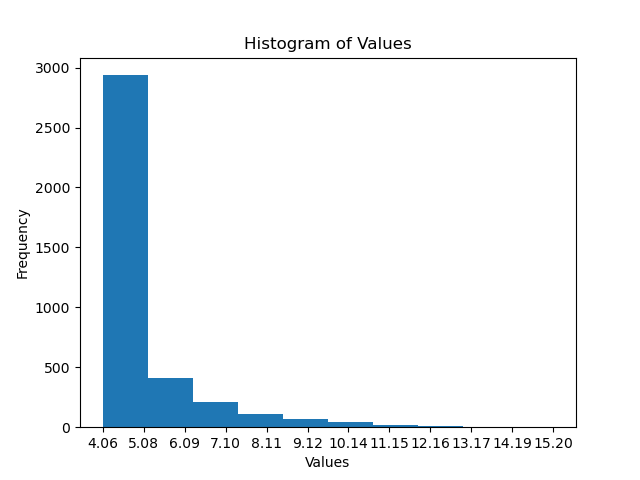
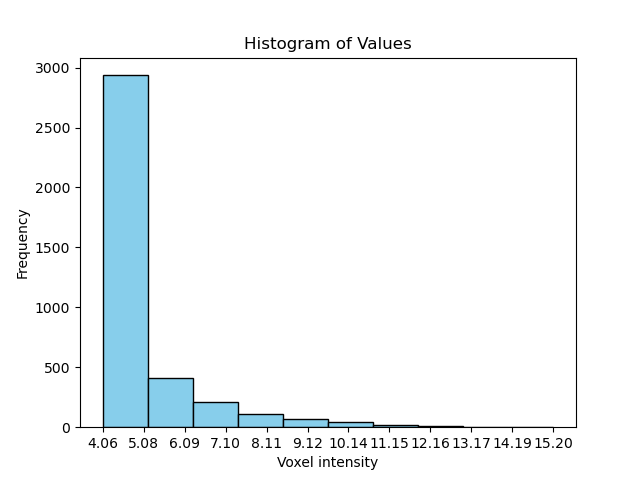
Add README and rename main notebook for clarity
This commit introduces a README.md to provide essential information about the project, including installation instructions and features. Additionally, the main Jupyter notebook was renamed from "main.ipynb" to "ptsd-visualization.ipynb" to better reflect its purpose.

Changed region(s): [[0.1562, 0.1562, 0.7188, 0.9062], [0.4375, 0.9375, 0.5938, 1.0]]

diff --git a/README.md b/README.md
@@ -1,0 +1,38 @@
+# Functional MRI data visualization - PTSD
+<em>Programming for Psychologists 2024/25 (Vrije Universiteit Amsterdam). Home assignment.</em>
+
+**Course code:** M_PROPSY\
+**Student:** Anna Pecherkina\
+**Course coordinator:** Matthias Nau\
+**Teaching assistant:** Anna van Harmelen
+
+## Description
+The current project provides a flexible tool for visualizing brain activity related to any psychological concept from the [Neurosynth database](https://neurosynth.org/analyses/terms/).
+
+This Jupyter Notebook demonstrates analysis of fMRI PTSD data. The notebook generates two informative figures: the first overlays functional data onto anatomical brain scans to pinpoint areas strongly linked to the PTSD, while the second displays a histogram of voxel intensities for a detailed view of brain activity.
+
+## Installation
+Instructions on how to set up and install the project. This includes requirements, dependencies, and a step-by-step guide.
+
+### Used data
+Data from the [Neurosynth database](https://neurosynth.org/analyses/terms/) 
+
+### Requirements
+- Python 3 (e.g., Python 3.12.7)
+- Libraries: matplotlib, nibabel, nilearn 
+- Jupyter Notebook
+
+### Setup
+1. **Clone the repository**
+```bash
+  git clone https://github.com/pecherkina/propsy-home-assignment.git
+```
+2. **Install dependencies**
+```bash
+pip install matplotlib nibabel nilearn 
+```
+
+## Features
+- Visualization of brain regions associated with psychological concepts.
+- Histogram display of voxel intensities.
+- Customizable data exploration for different psychological concepts.
